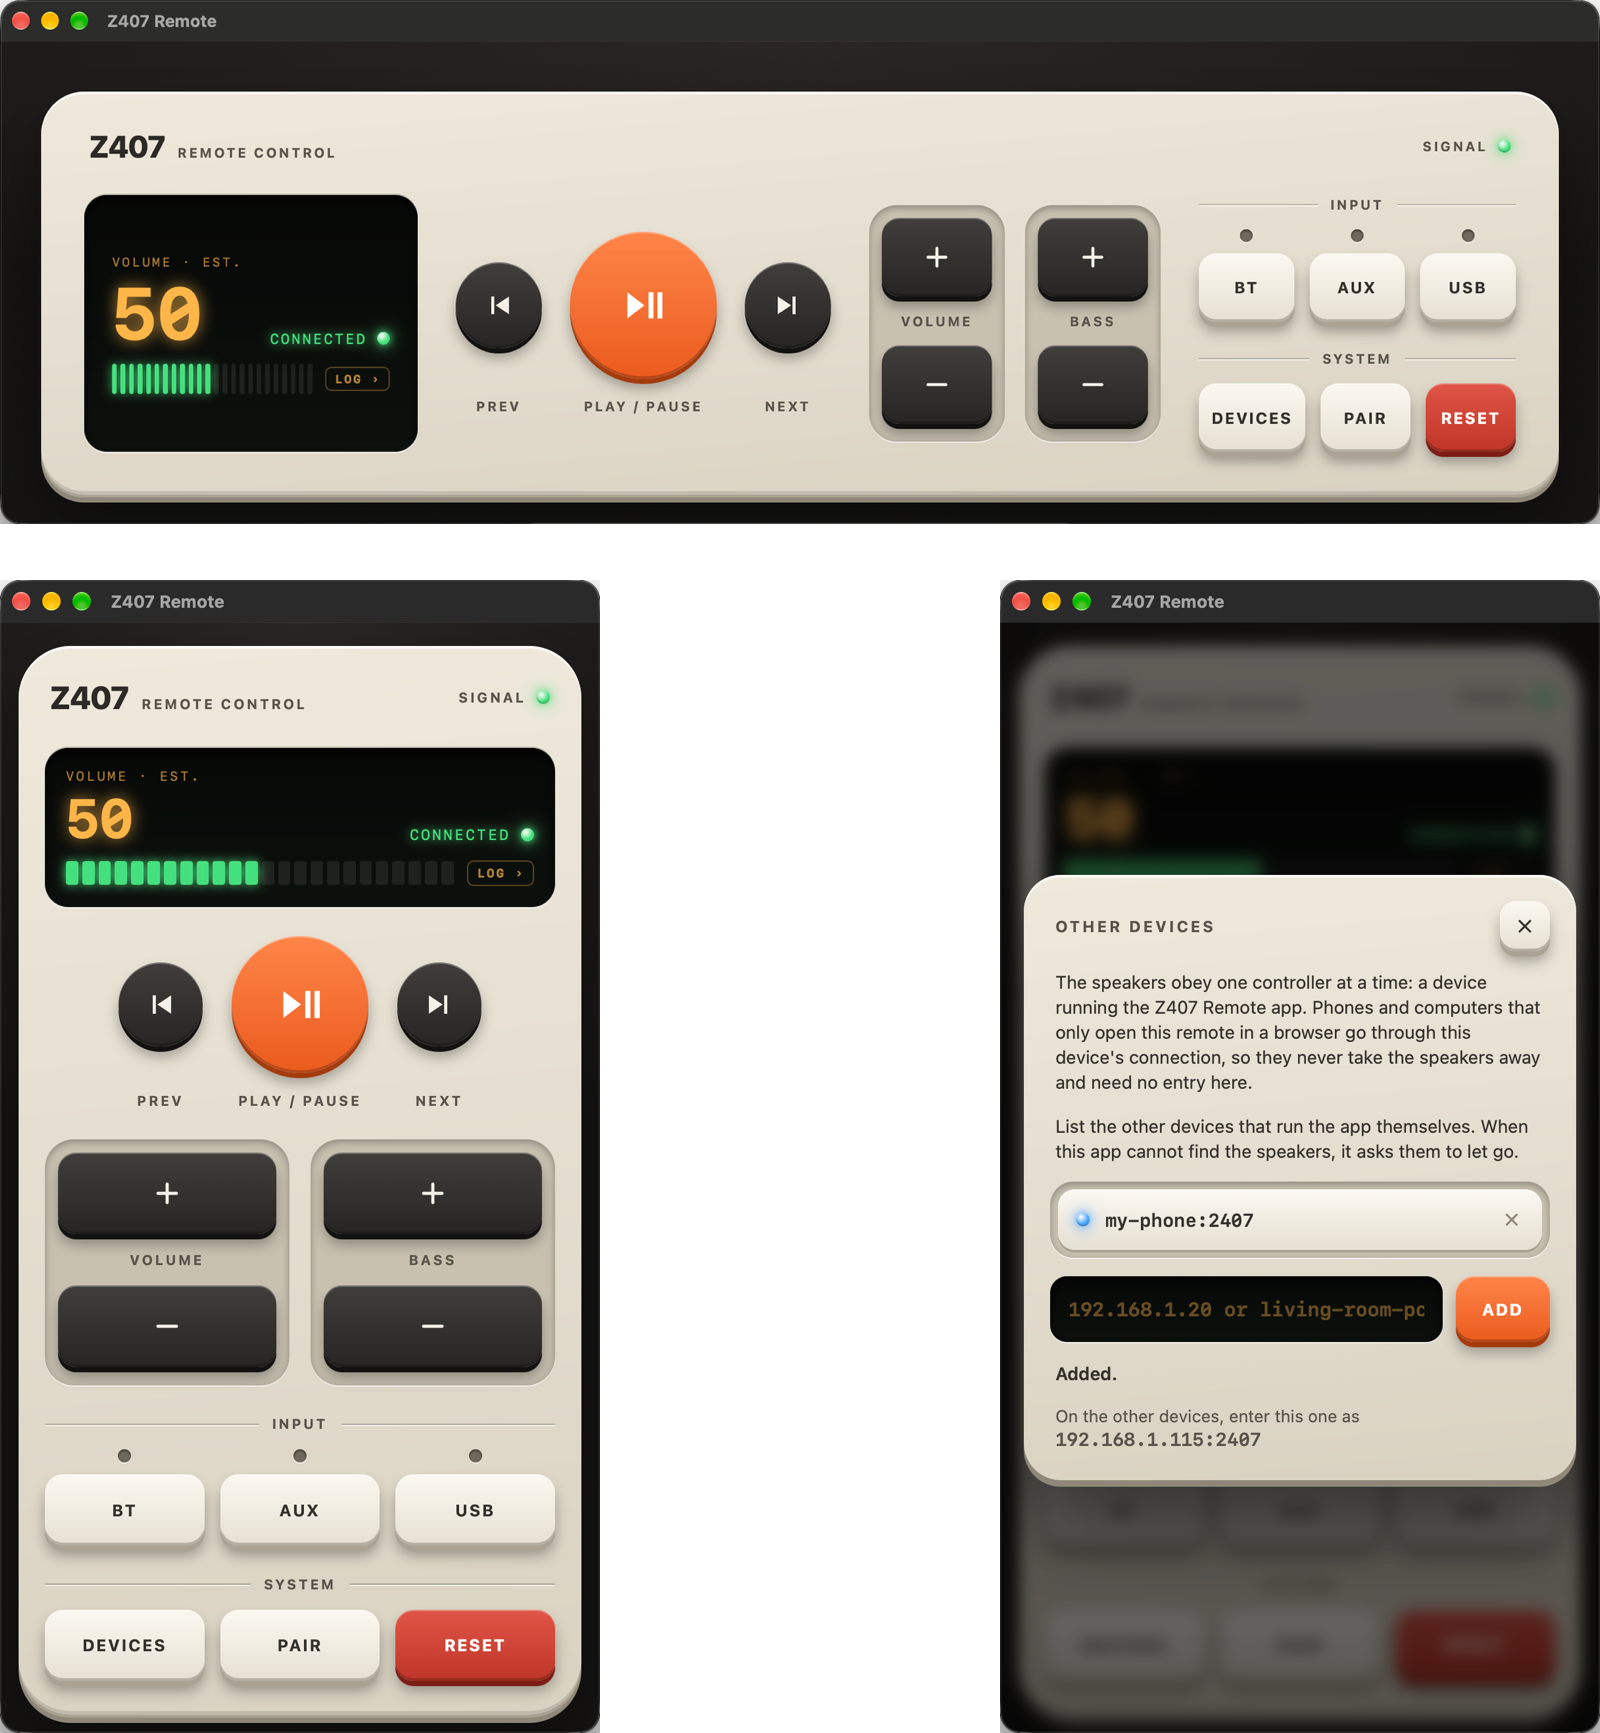
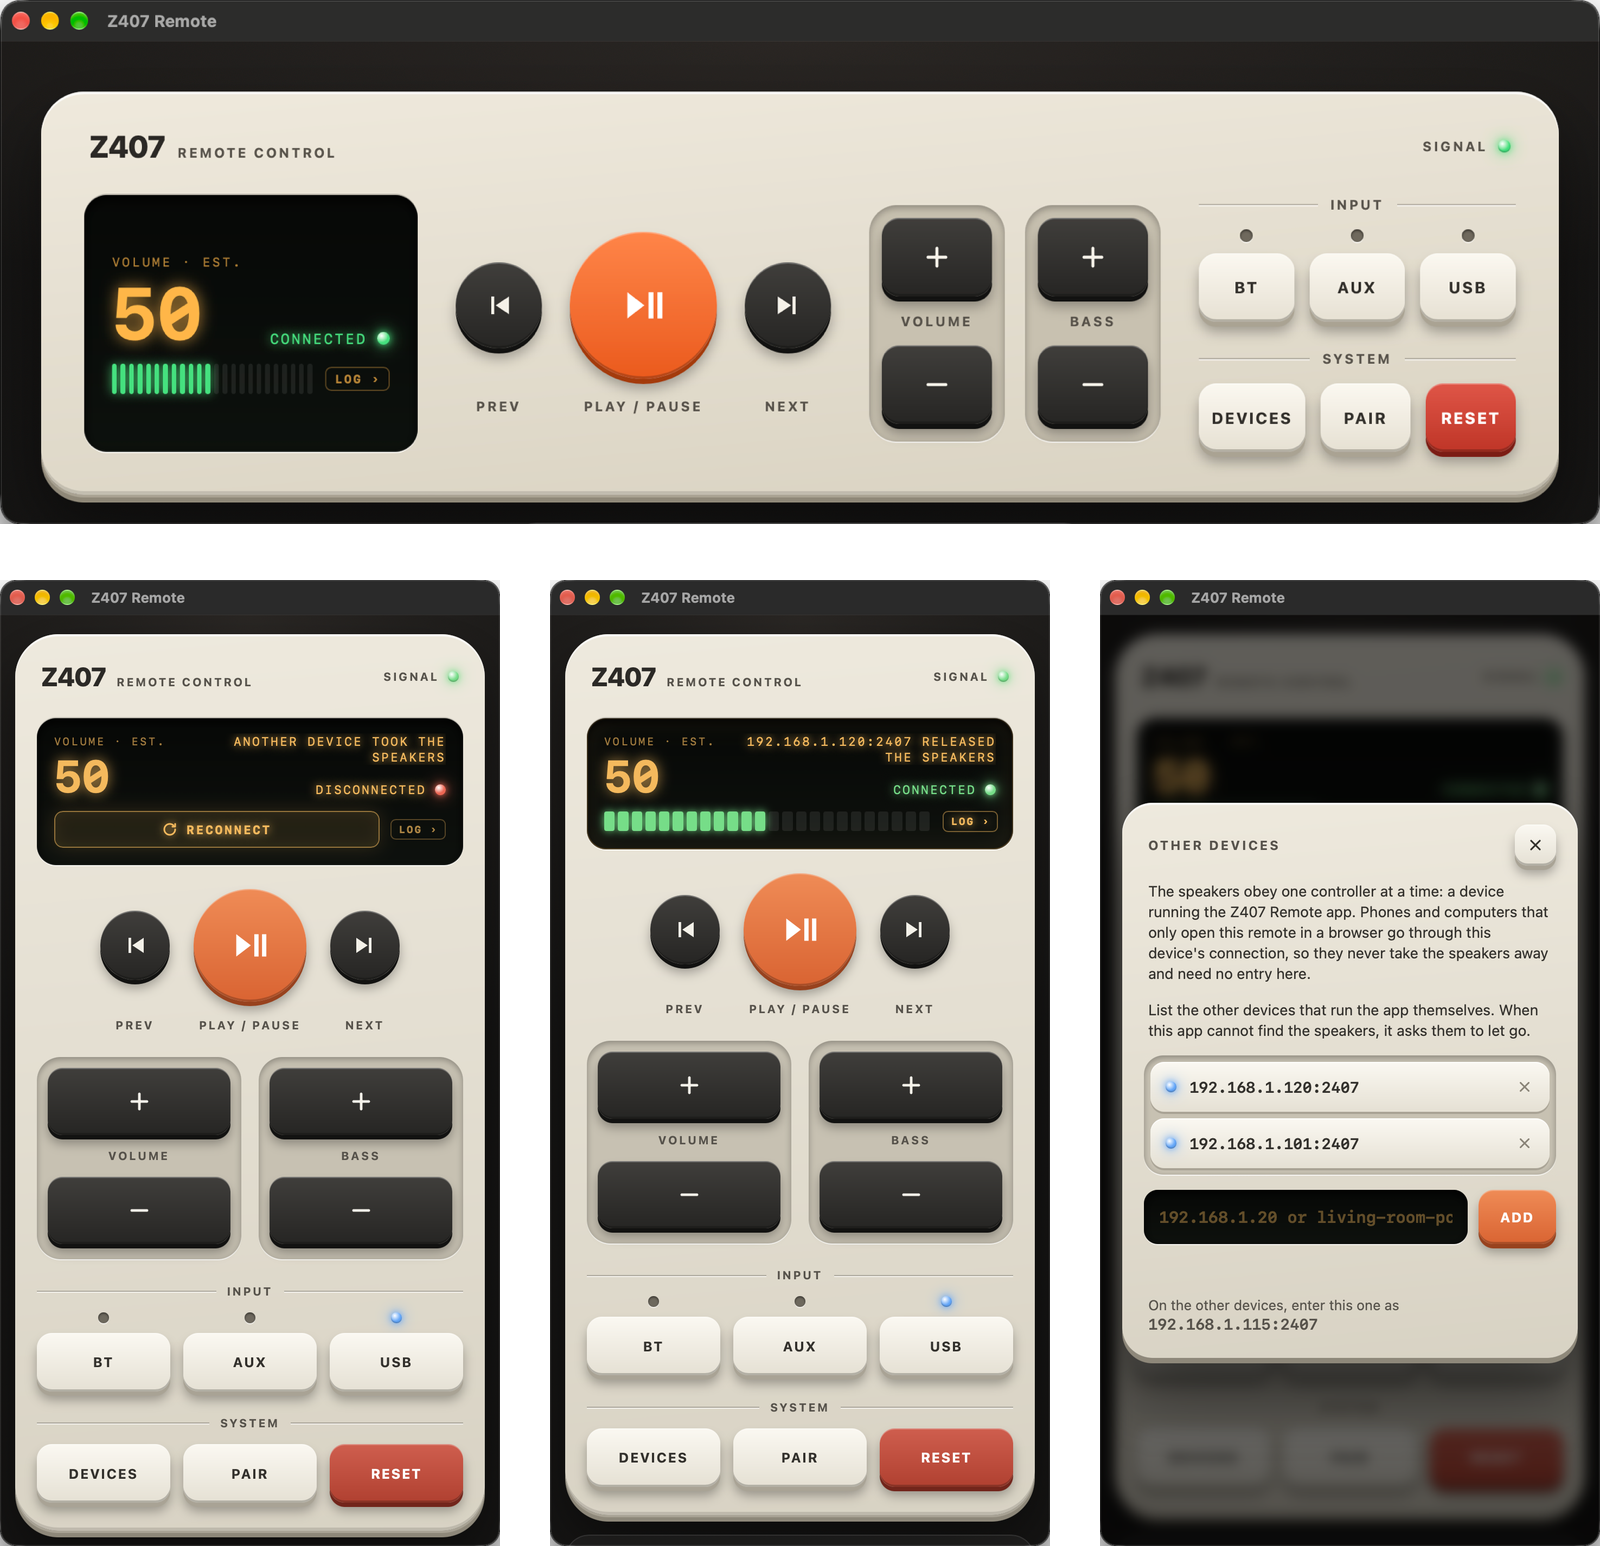
README: screenshots of Disconnected, released and the Devices panel

diff --git a/README.md b/README.md
@@ -2,7 +2,7 @@
 
 A remote control for the **Logitech Z407** Bluetooth speakers that runs on your computers and phones at once. Each device talks to the speakers over Bluetooth LE; the speakers accept only one at a time, so the device you pick up takes them over and the others step aside. Every copy also serves the remote to the rest of your network, so any browser can use it.
 
-<p align="center"><img src="docs/screenshots.png" alt="The remote in a wide window; below it the remote in a narrow window and the Devices panel" width="800"></p>
+<p align="center"><img src="docs/screenshots.png" alt="The remote in a wide window; below it, in narrow windows: Disconnected with the Reconnect key after another device took the speakers, connected again after asking another device to release them, and the Devices panel" width="800"></p>
 
 ## Features
 
